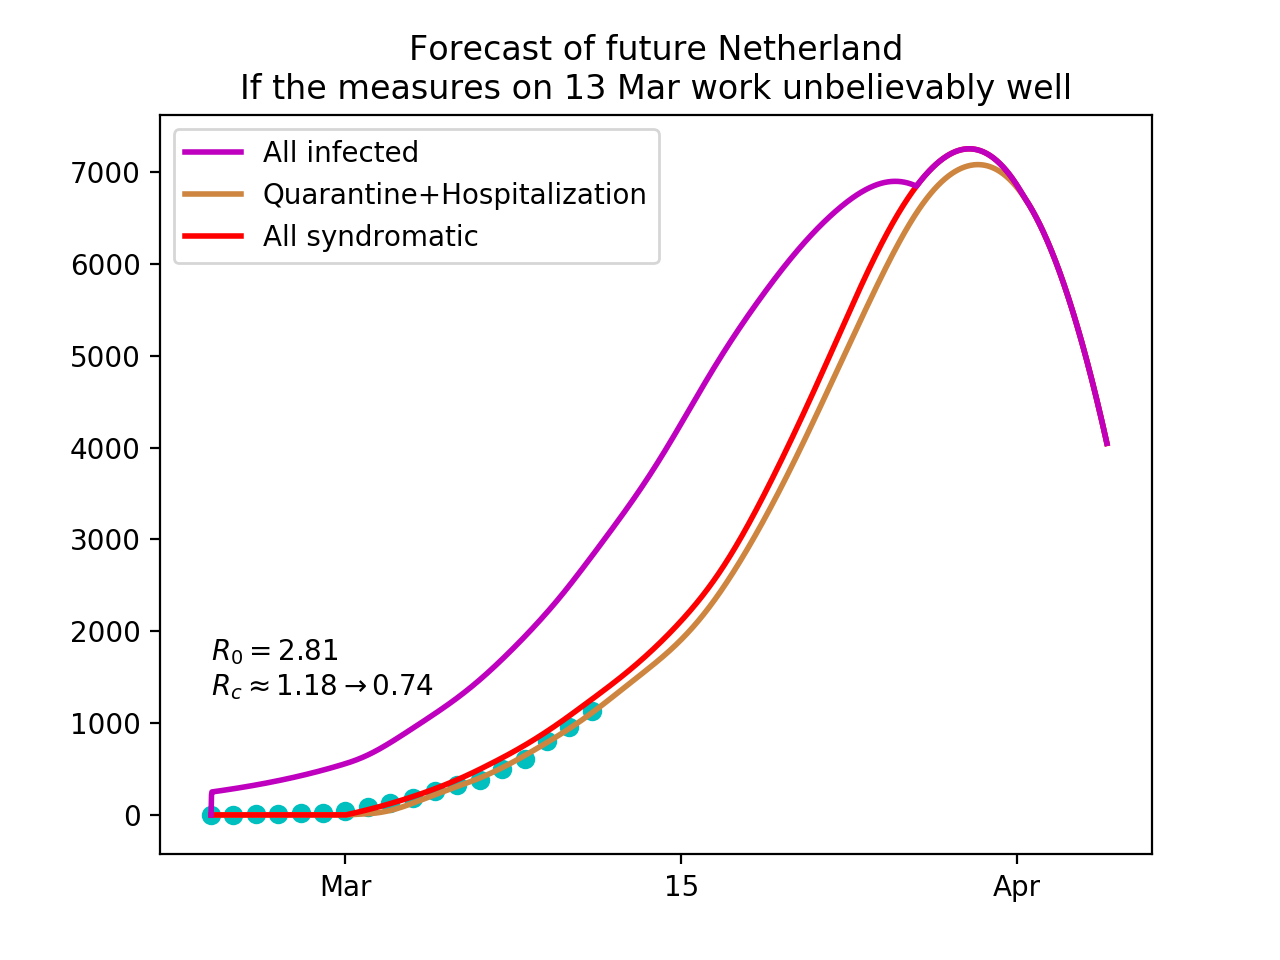
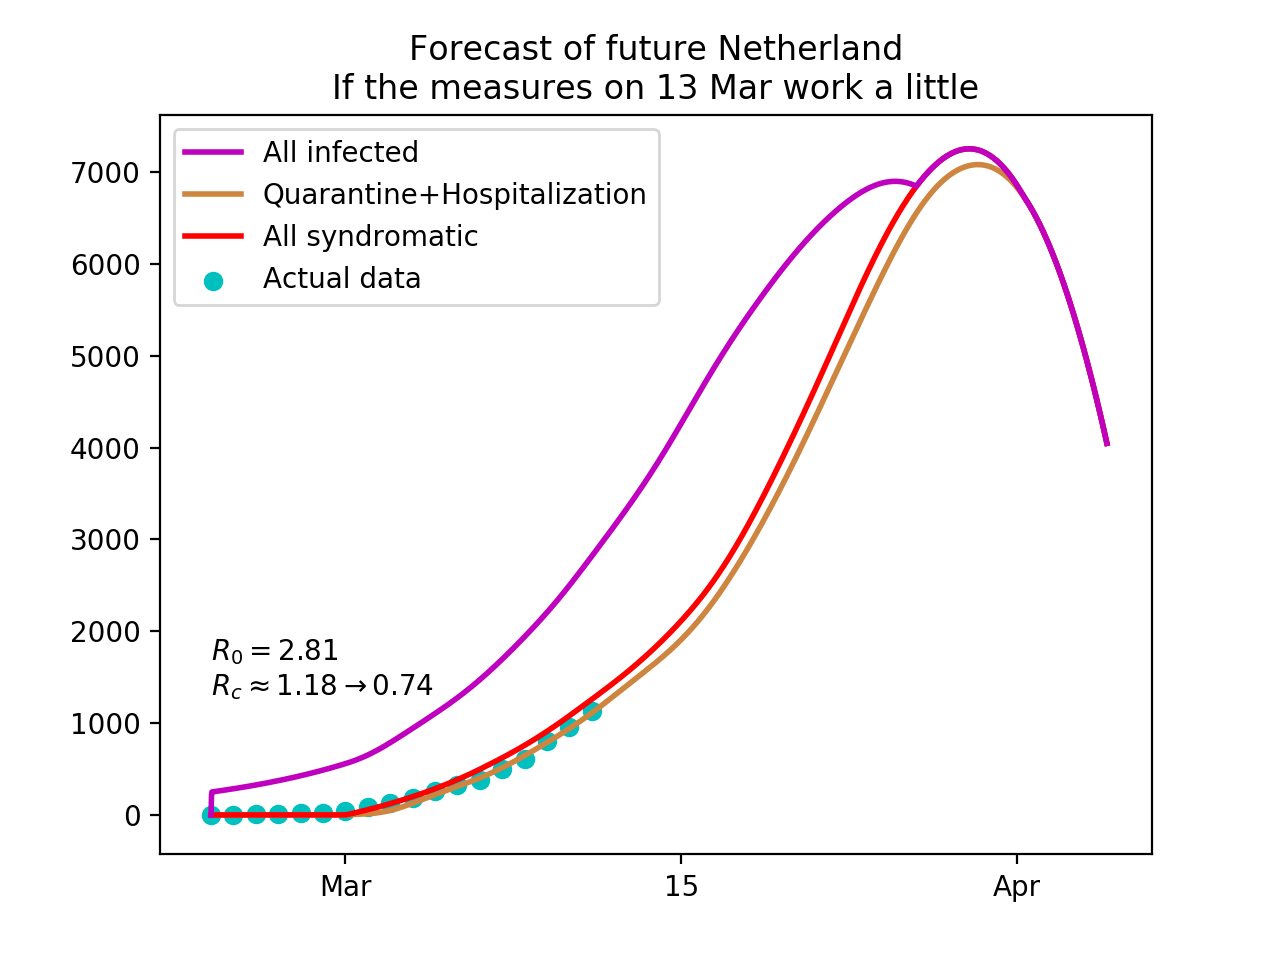
add legends

Changed region(s): [[0.1875, 0.0625, 0.8438, 0.125], [0.1562, 0.25, 0.3438, 0.3125]]

diff --git a/CoronaVirusModel.py b/CoronaVirusModel.py
@@ -57,8 +57,8 @@ delayP2 = 10    # heal duration
 delayQ = 4      # quarantine to hospitalization time
 delayH = 10     # heal duration
 
-k_prime = 0.08
-beta_prime = 0.06
+k_prime = 0.06
+beta_prime = 0.08
 # modification after policies
 
 #basic reproduction number estimation
@@ -111,12 +111,13 @@ syndrom_heal, = plot(tt,yy[:,2]+yy[:,3]+yy[:,4]+yy[:,5],c='r',lw=2)
 # plot the quarantine, hospitalizations and the rest of illed patients
 all_, = plot(tt, yy[:,1]+yy[:,2]+yy[:,3]+yy[:,4]+yy[:,5],c='m', lw=2)
 # all unrecovered patients
-plt.scatter(time, data, c='c')
+scatter = plt.scatter(time, data, c='c')
 # actual data
 
 plt.text(0, yy[nmax-1,2]/0.8, r'$R_0=%.2f$''\n' r'$R_c \approx %.2f \rightarrow %.2f$'%(R0,Rc,Rc_prime))
-plt.legend([all_, heal, syndrom_heal], ["All infected","Quarantine+Hospitalization", "All syndromatic"])
+plt.legend([all_, heal, syndrom_heal,scatter], ["All infected","Quarantine+Hospitalization", "All syndromatic","Actual data"])
 xticks(np.arange(6,40,step = 15), ('Mar', '15', 'Apr', '15', 'May'))
+
 plt.title("Forecast of future Netherland\nIf the measures on 13 Mar work a little")
 
 plt.show()
